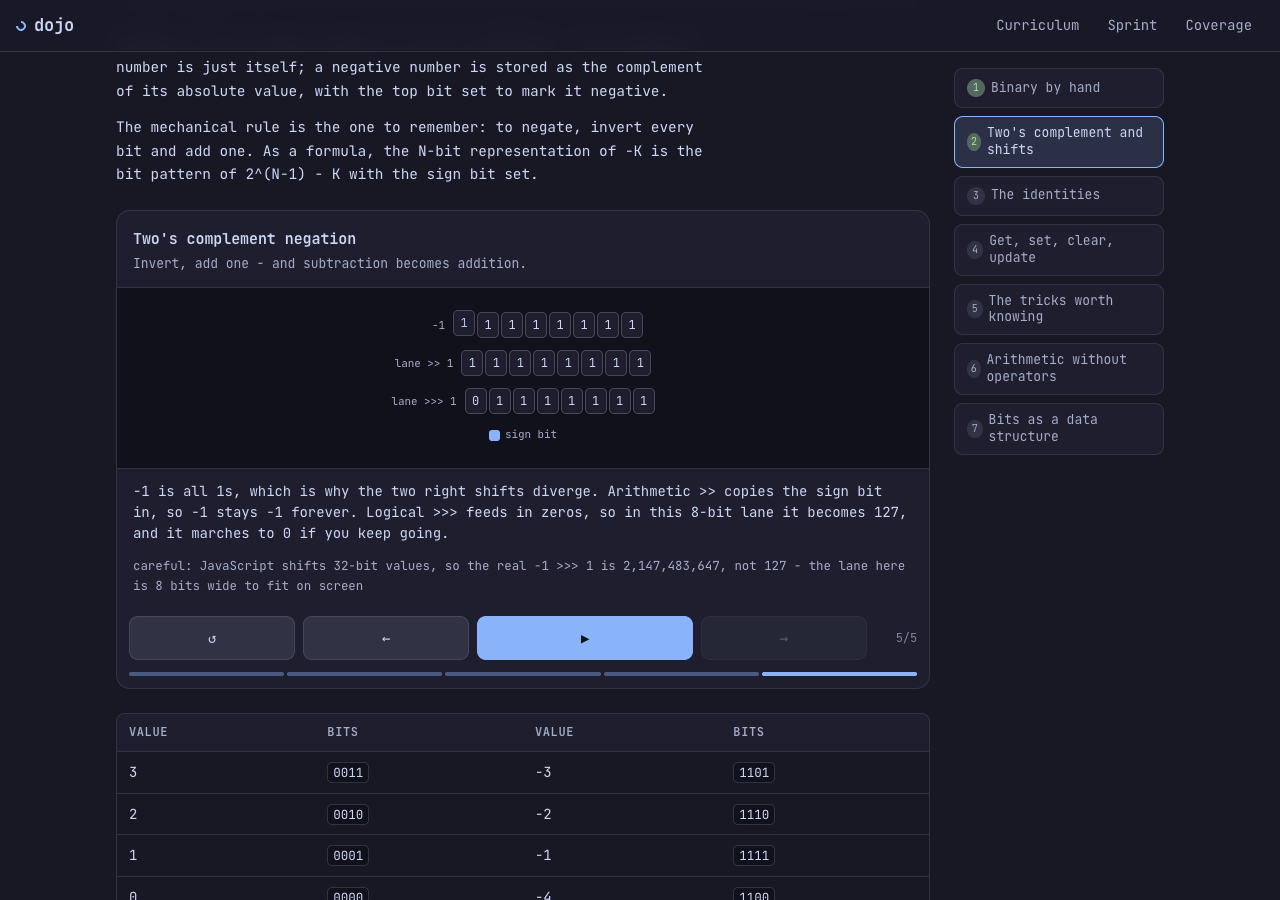
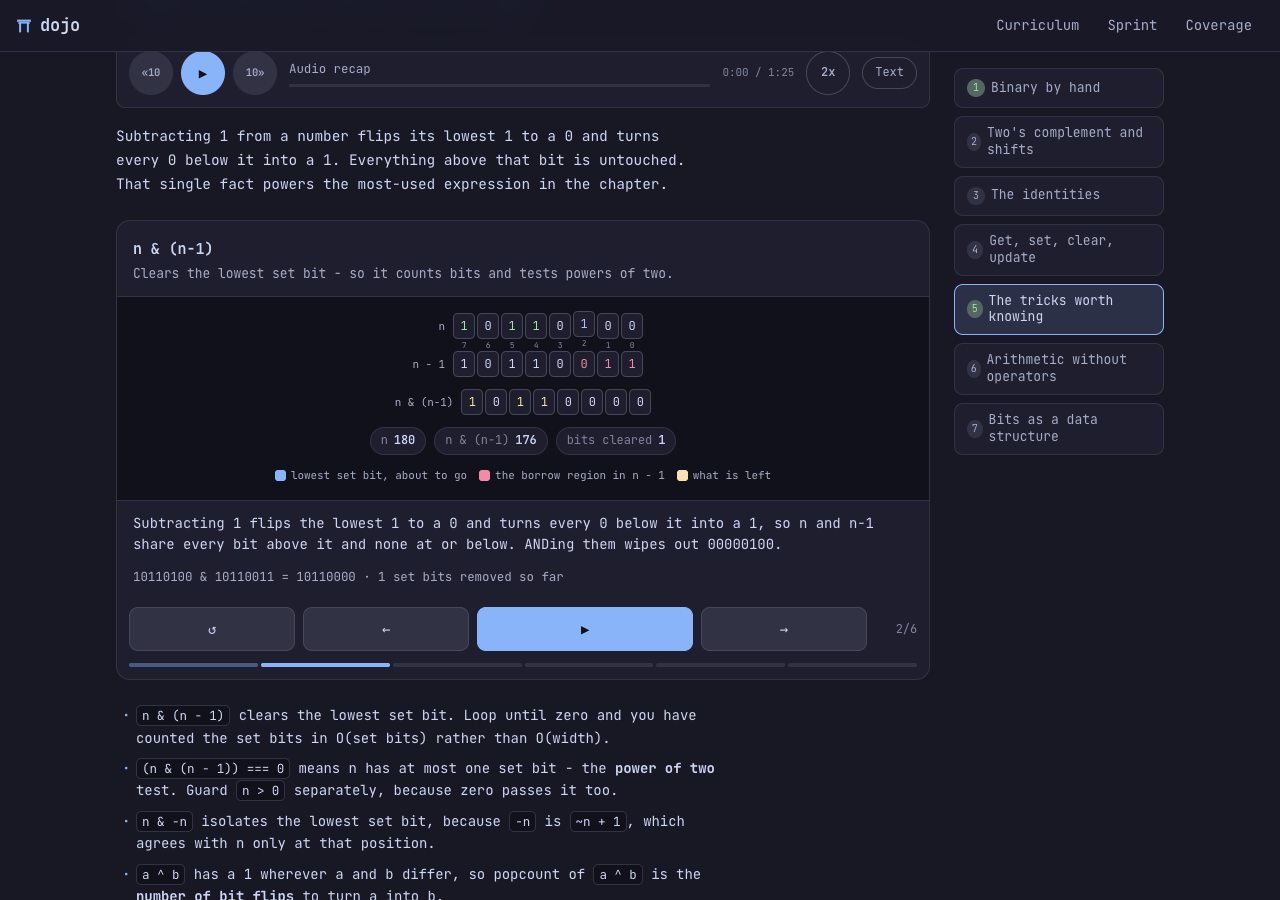
fix(anim): name both sides of the clear-lowest-bit transition
The repaired frame still put two different numbers on screen for the same
thing: the row labelled `n` rendered the value going in to the step (180)
while an unqualified `value` readout rendered the result coming out (176).

Each readout entry is now named after the row it mirrors - `n`, `n & (n−1)`
and `bits cleared` - and reads as `—` when no result row is drawn, so a frame
cannot imply a value it is not showing.

Extends the frame assertions to the rendered DOM rather than the frame data
alone: every readout must either name a row that is actually on screen and
agree with it, or be a declared counter. That is checked across all five
bit-manipulation animations, plus assertions that the clear animation's three
rows are consistent with each other on screen and that the bits-cleared
counter matches the popcount of the result being displayed.

Verified by reintroducing three variants of the defect - the original
unlabelled readout, a correctly labelled readout reading the wrong value, and
the row itself rendering the wrong value. All three fail the new tests.

Audited the readouts in the other four modules: every remaining label is a
declared counter, an explicitly scoped quantity or a static parameter, so
none can contradict a rendered row. Recorded the convention in AGENTS.md.

diff --git a/src/content/modules/bit-manipulation/animations.test.tsx b/src/content/modules/bit-manipulation/animations.test.tsx
@@ -5,6 +5,7 @@
  * longer drift away from the frame it describes.
  */
 import { describe, expect, it } from 'vitest';
+import { render } from '@testing-library/react';
 
 import {
   DRAW_LINE_SPEC,
@@ -19,6 +20,7 @@ import {
   maskFrames,
   toByte,
 } from './animations';
+import { addWithoutPlus, clearLowestBit, drawLine, maskOps, twosComplement } from './animations';
 
 const popcount = (value: number) =>
   binary(value)
@@ -206,5 +208,130 @@ describe('bm-draw-line', () => {
   it('never writes the same byte twice', () => {
     const touched = drawFrames.map((frame) => frame.touched).filter((b) => b !== null);
     expect(new Set(touched).size).toBe(touched.length);
+  });
+});
+
+/* ------------------------------------------------------------------------ */
+/* Rendered output: what a learner actually sees on one frame.               */
+/* ------------------------------------------------------------------------ */
+
+/** `<Bits>` rows as {label, value}, read back out of the DOM. */
+const readBitRows = (container: HTMLElement) =>
+  [...container.querySelectorAll('.viz__bitsRow')].map((row) => ({
+    label: row.querySelector('.viz__bitsLabel')?.textContent ?? '',
+    value: parseInt(
+      [...row.querySelectorAll('.viz__bit')]
+        .map((bit) => bit.childNodes[0]?.textContent ?? '')
+        .join(''),
+      2,
+    ),
+  }));
+
+/** `<Readout>` entries as {label, value}, read back out of the DOM. */
+const readReadout = (container: HTMLElement) =>
+  [...container.querySelectorAll('.viz__readoutItem')].map((item) => ({
+    label: item.querySelector('dt')?.textContent ?? '',
+    value: item.querySelector('dd')?.textContent ?? '',
+  }));
+
+/** Readout labels that are counters or metadata rather than a rendered row. */
+const NOT_A_ROW = new Set([
+  'bits cleared',
+  'round',
+  'a + b so far',
+  'expression',
+  'line',
+  'byte writes',
+]);
+
+describe('rendered frames', () => {
+  const specs = [maskOps, twosComplement, clearLowestBit, addWithoutPlus, drawLine];
+
+  it('never shows a number that contradicts the row it is named after', () => {
+    // The bug this pins: a readout labelled `value` showed the post-operation
+    // result while the row labelled `n` showed the pre-operation one, so the
+    // same frame displayed 180 and 176 for the same thing. Every readout must
+    // now either name a rendered row and agree with it, or be a counter.
+    for (const spec of specs) {
+      for (let index = 0; index < spec.length; index++) {
+        const { container, unmount } = render(<spec.Frame index={index} />);
+        const rows = readBitRows(container);
+        for (const item of readReadout(container)) {
+          if (NOT_A_ROW.has(item.label) || item.value === '—') continue;
+          const row = rows.find((candidate) => candidate.label === item.label);
+          expect(row, `${spec.id} step ${index}: readout "${item.label}" names no rendered row`)
+            .toBeDefined();
+          expect(
+            String((row as { value: number }).value),
+            `${spec.id} step ${index}: readout "${item.label}"`,
+          ).toBe(item.value);
+        }
+        unmount();
+      }
+    }
+  });
+
+  it('names both sides of the clear-lowest-bit transition', () => {
+    for (let index = 0; index < clearLowestBit.length; index++) {
+      const { container, unmount } = render(<clearLowestBit.Frame index={index} />);
+      const rows = readBitRows(container);
+      const readout = readReadout(container);
+      const labels = readout.map((item) => item.label);
+
+      // The value going in is always on screen and always named.
+      expect(labels, `step ${index}`).toContain('n');
+      expect(readout.find((item) => item.label === 'n')?.value).toBe(
+        String(rows.find((row) => row.label === 'n')?.value),
+      );
+
+      // The result is named too, and reads as absent exactly when no row for it
+      // is drawn - so no frame can imply a result it is not showing.
+      const resultRow = rows.find((row) => row.label === 'n & (n−1)');
+      const resultItem = readout.find((item) => item.label === 'n & (n−1)');
+      expect(resultItem, `step ${index} has no result readout`).toBeDefined();
+      if (resultRow === undefined) {
+        expect(resultItem?.value, `step ${index}`).toBe('—');
+      } else {
+        expect(resultItem?.value, `step ${index}`).toBe(String(resultRow.value));
+      }
+      unmount();
+    }
+  });
+
+  it('renders the borrow row as n − 1 whenever a bit is being cleared', () => {
+    for (let index = 0; index < clearLowestBit.length; index++) {
+      const { container, unmount } = render(<clearLowestBit.Frame index={index} />);
+      const rows = readBitRows(container);
+      const n = rows.find((row) => row.label === 'n');
+      const borrow = rows.find((row) => row.label === 'n − 1');
+      const result = rows.find((row) => row.label === 'n & (n−1)');
+      if (result !== undefined) {
+        expect(borrow, `step ${index} clears a bit but shows no n − 1`).toBeDefined();
+        expect(borrow?.value).toBe((n as { value: number }).value - 1);
+        // And the three rows are consistent with each other, on screen.
+        expect(result.value).toBe(
+          (n as { value: number }).value & ((n as { value: number }).value - 1),
+        );
+      } else {
+        expect(borrow, `step ${index} shows n − 1 with no result`).toBeUndefined();
+      }
+      unmount();
+    }
+  });
+
+  it('keeps the bits-cleared counter equal to the bits actually removed', () => {
+    const start = clearFrames[0].before;
+    for (let index = 0; index < clearLowestBit.length; index++) {
+      const { container, unmount } = render(<clearLowestBit.Frame index={index} />);
+      const rows = readBitRows(container);
+      const readout = readReadout(container);
+      // The counter includes the step this frame depicts, so it is measured
+      // against the result row when there is one, and against n otherwise.
+      const result = rows.find((row) => row.label === 'n & (n−1)');
+      const shown = (result ?? rows.find((row) => row.label === 'n')) as { value: number };
+      const cleared = Number(readout.find((item) => item.label === 'bits cleared')?.value);
+      expect(cleared, `step ${index}`).toBe(popcount(start) - popcount(shown.value));
+      unmount();
+    }
   });
 });

diff --git a/src/content/modules/bit-manipulation/animations.tsx b/src/content/modules/bit-manipulation/animations.tsx
@@ -392,9 +392,17 @@ function ClearFrameView({ index }: { index: number }) {
           bits={bitRow(frame.after, `e${index}`, (_, bit) => (bit === 1 ? 'target' : undefined))}
         />
       )}
+      {/* One readout entry per rendered row, named after that row. A single
+          unqualified "value" is ambiguous mid-transition: n and n & (n−1) are
+          two different numbers on the same frame, and both are on screen. */}
       <Readout
         items={[
-          { key: 'v', label: 'value', value: String(frame.after ?? frame.before) },
+          { key: 'v', label: 'n', value: String(frame.before) },
+          {
+            key: 'r',
+            label: 'n & (n−1)',
+            value: frame.after === null ? '—' : String(frame.after),
+          },
           { key: 'k', label: 'bits cleared', value: String(frame.count) },
         ]}
       />

diff --git a/AGENTS.md b/AGENTS.md
@@ -81,6 +81,12 @@ shell, the manifest, the icons, the fonts or any narration MP3.
 - Drills reference `src/data/problems.ts` by slug only; problem metadata lives there once.
 - Behaviour lives in pure reducers next to the component (`quizMachine`, `audioMachine`,
   `anim/stepper`, `lib/progress`) so it is testable without rendering.
+- Animation frames must derive every number they display from executed state - never hand-count a
+  total or retype a computed value into a caption. Capture what a step is about *before* mutating,
+  and name each `Readout` entry after the row it mirrors: a generic label like "value" on a frame
+  mid-transition silently contradicts the row beside it. `animations.test.ts(x)` beside a module
+  pins these by recomputing each claim from an independent reference and by reading the rendered
+  DOM back out. Captions bypass `RichText`, so `**bold**` markup shows up literally.
 
 ## Mobile and iOS constraints
 
